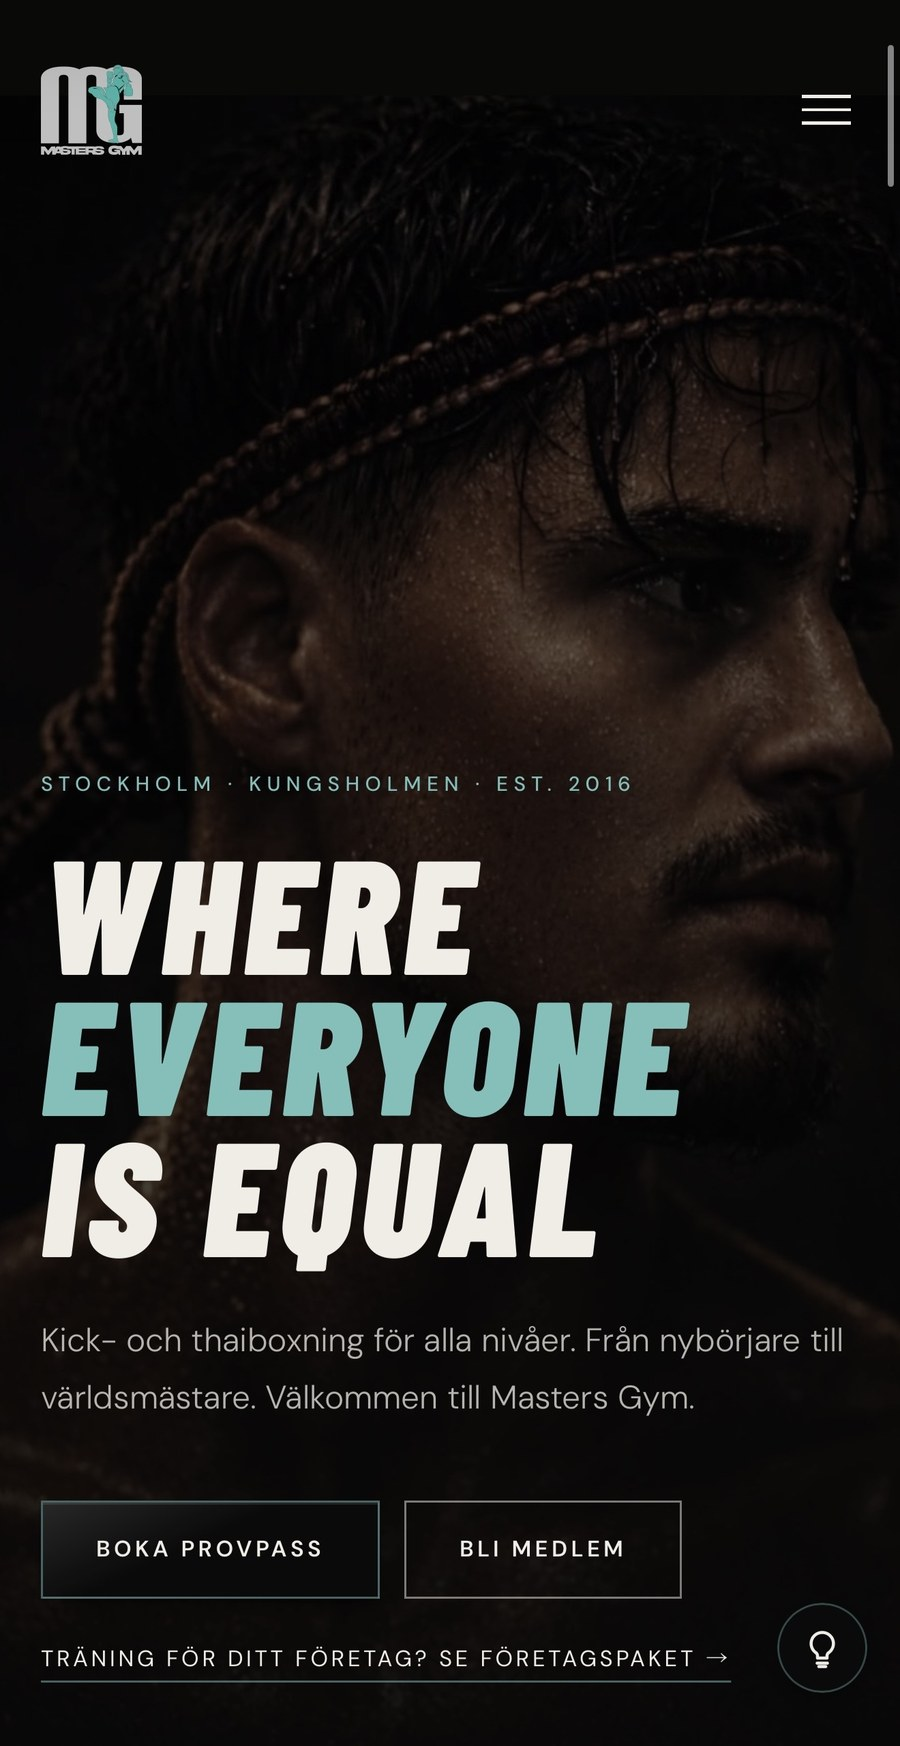
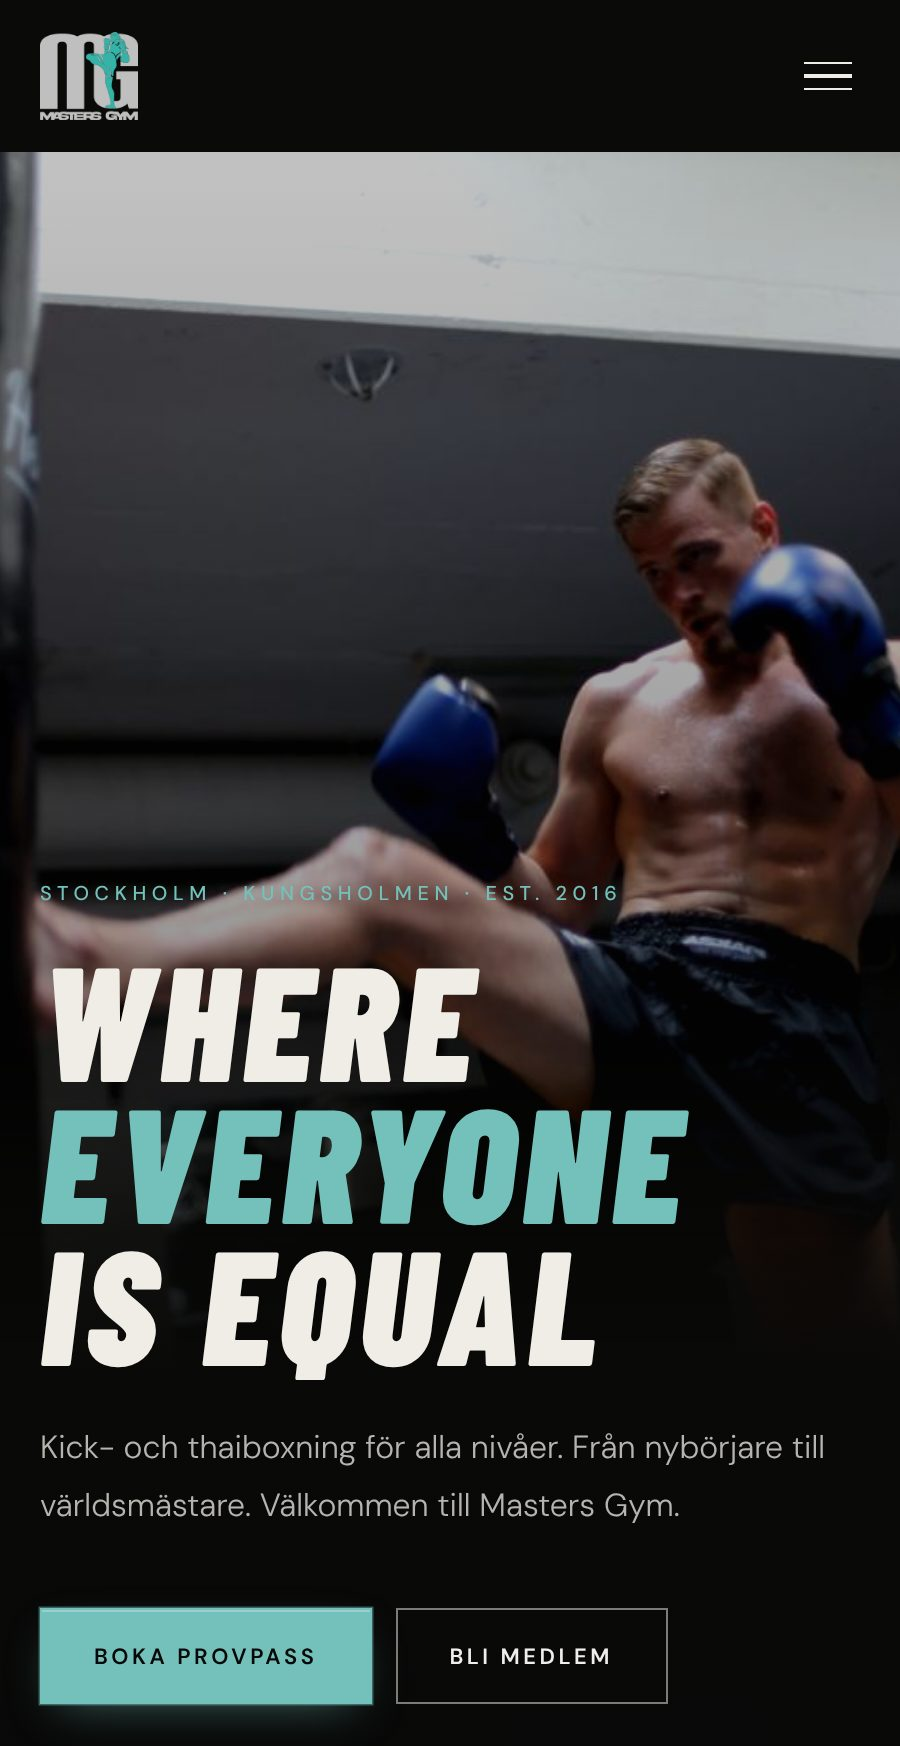
Featured work: bring back Masters Gym with new hero thumbnail

diff --git a/sv/index.html b/sv/index.html
@@ -173,7 +173,9 @@
   .fw-preview-link svg { width: 13px; height: 13px; flex-shrink: 0; }
   .fw-preview-link:focus-visible { outline: 2px solid var(--accent); outline-offset: 3px; }
 
-  .fw-notice { max-width: 640px; margin: 0 auto; text-align: center; padding: 56px 32px; border: 1px solid rgba(255,255,255,0.1); border-radius: 16px; background: #111214; }
+  .fw-grid.fw-grid-single { grid-template-columns: minmax(0, 400px); justify-content: center; }
+  @media (max-width: 900px) { .fw-grid.fw-grid-single { grid-auto-flow: row; grid-template-columns: minmax(0, 340px); overflow: visible; } }
+  .fw-notice { max-width: 640px; margin: 56px auto 0; text-align: center; padding: 56px 32px; border: 1px solid rgba(255,255,255,0.1); border-radius: 16px; background: #111214; }
   .fw-notice-title { color: #fff; font-size: clamp(20px, 2.4vw, 26px); margin: 20px 0 10px; }
   .fw-notice-text { color: rgba(255,255,255,0.55); font-size: 15px; line-height: 1.6; margin: 0; }
   .fw-dots { display: none; gap: 6px; justify-content: center; margin-top: 24px; }
@@ -334,6 +336,29 @@
     <div>
       <p class="eyebrow2 on-dark" data-i18n="fw_eyebrow"><span class="eyebrow2-slash">/</span> Utvalda projekt <span class="eyebrow2-slash">/</span></p>
       <h2 data-i18n="fw_h2">Webbplatser för varumärken som presterar.</h2>
+    </div>
+  </div>
+
+  <div class="fw-grid fw-grid-single">
+    <div class="fw-card fw-float">
+      <a class="fw-shot-link" href="https://stormieperformance.com/masters-gym/" target="_blank" rel="noopener noreferrer">
+        <div class="fw-shot fw-shot-1">
+          <img src="/shot-masters-gym.jpg?v=20261127" alt="Masters Gym website" loading="lazy">
+        </div>
+      </a>
+      <div class="fw-meta">
+        <div>
+          <p class="fw-name">Masters Gym</p>
+          <p class="fw-cat" data-i18n="fw_cat_website">Webbplats</p>
+          <div class="fw-status-row">
+            <span class="fw-badge"><span class="fw-badge-dot" aria-hidden="true"></span><span data-i18n="fw_status_dev">Under utveckling</span></span>
+            <a class="fw-preview-link" href="https://stormieperformance.com/masters-gym/" target="_blank" rel="noopener noreferrer">
+              <span data-i18n="fw_preview_link">Se förhandsvisning</span>
+              <svg width="13" height="13" viewBox="0 0 24 24" fill="none" stroke="currentColor" stroke-width="2.5" stroke-linecap="round" stroke-linejoin="round"><line x1="7" y1="17" x2="17" y2="7"/><polyline points="7 7 17 7 17 17"/></svg>
+            </a>
+          </div>
+        </div>
+      </div>
     </div>
   </div>
 

diff --git a/index.html b/index.html
@@ -234,7 +234,9 @@
   .fw-preview-link svg { width: 13px; height: 13px; flex-shrink: 0; }
   .fw-preview-link:focus-visible { outline: 2px solid var(--accent); outline-offset: 3px; }
 
-  .fw-notice { max-width: 640px; margin: 0 auto; text-align: center; padding: 56px 32px; border: 1px solid rgba(255,255,255,0.1); border-radius: 16px; background: #111214; }
+  .fw-grid.fw-grid-single { grid-template-columns: minmax(0, 400px); justify-content: center; }
+  @media (max-width: 900px) { .fw-grid.fw-grid-single { grid-auto-flow: row; grid-template-columns: minmax(0, 340px); overflow: visible; } }
+  .fw-notice { max-width: 640px; margin: 56px auto 0; text-align: center; padding: 56px 32px; border: 1px solid rgba(255,255,255,0.1); border-radius: 16px; background: #111214; }
   .fw-notice-title { color: #fff; font-size: clamp(20px, 2.4vw, 26px); margin: 20px 0 10px; }
   .fw-notice-text { color: rgba(255,255,255,0.55); font-size: 15px; line-height: 1.6; margin: 0; }
   .fw-dots { display: none; gap: 6px; justify-content: center; margin-top: 24px; }
@@ -395,6 +397,29 @@
     <div>
       <p class="eyebrow2 on-dark" data-i18n="fw_eyebrow"><span class="eyebrow2-slash">/</span> Featured work <span class="eyebrow2-slash">/</span></p>
       <h2 data-i18n="fw_h2">Websites for brands that perform.</h2>
+    </div>
+  </div>
+
+  <div class="fw-grid fw-grid-single">
+    <div class="fw-card fw-float">
+      <a class="fw-shot-link" href="https://stormieperformance.com/masters-gym/" target="_blank" rel="noopener noreferrer">
+        <div class="fw-shot fw-shot-1">
+          <img src="shot-masters-gym.jpg?v=20261127" alt="Masters Gym website" loading="lazy">
+        </div>
+      </a>
+      <div class="fw-meta">
+        <div>
+          <p class="fw-name">Masters Gym</p>
+          <p class="fw-cat" data-i18n="fw_cat_website">Website</p>
+          <div class="fw-status-row">
+            <span class="fw-badge"><span class="fw-badge-dot" aria-hidden="true"></span><span data-i18n="fw_status_dev">In development</span></span>
+            <a class="fw-preview-link" href="https://stormieperformance.com/masters-gym/" target="_blank" rel="noopener noreferrer">
+              <span data-i18n="fw_preview_link">View preview</span>
+              <svg width="13" height="13" viewBox="0 0 24 24" fill="none" stroke="currentColor" stroke-width="2.5" stroke-linecap="round" stroke-linejoin="round"><line x1="7" y1="17" x2="17" y2="7"/><polyline points="7 7 17 7 17 17"/></svg>
+            </a>
+          </div>
+        </div>
+      </div>
     </div>
   </div>
 
